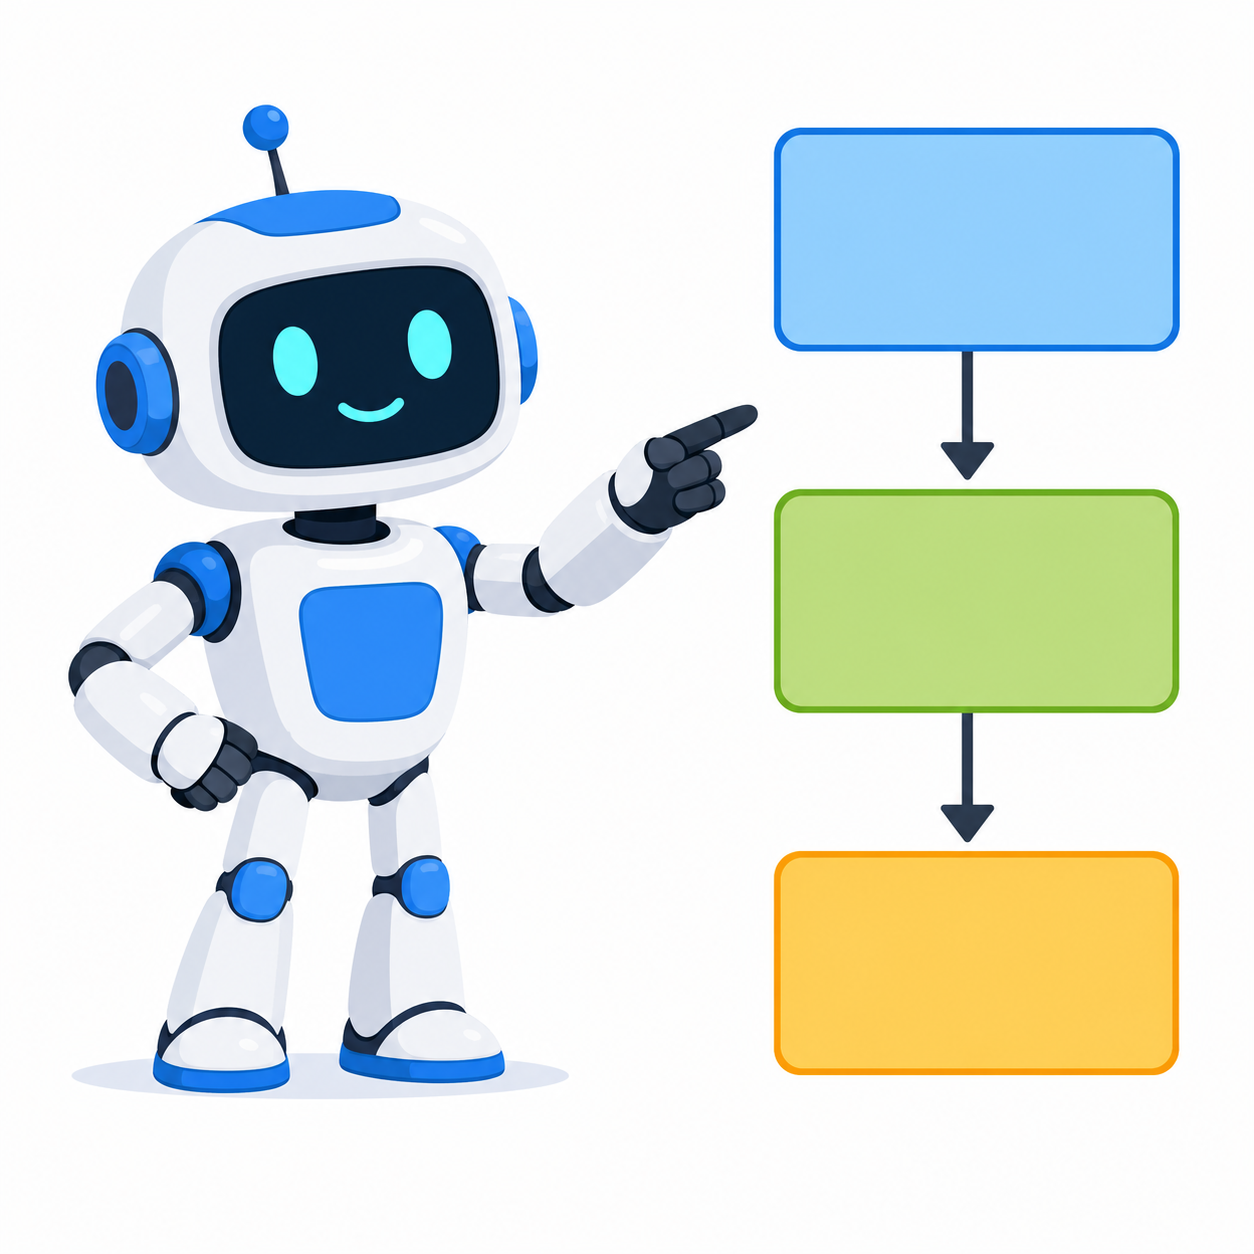
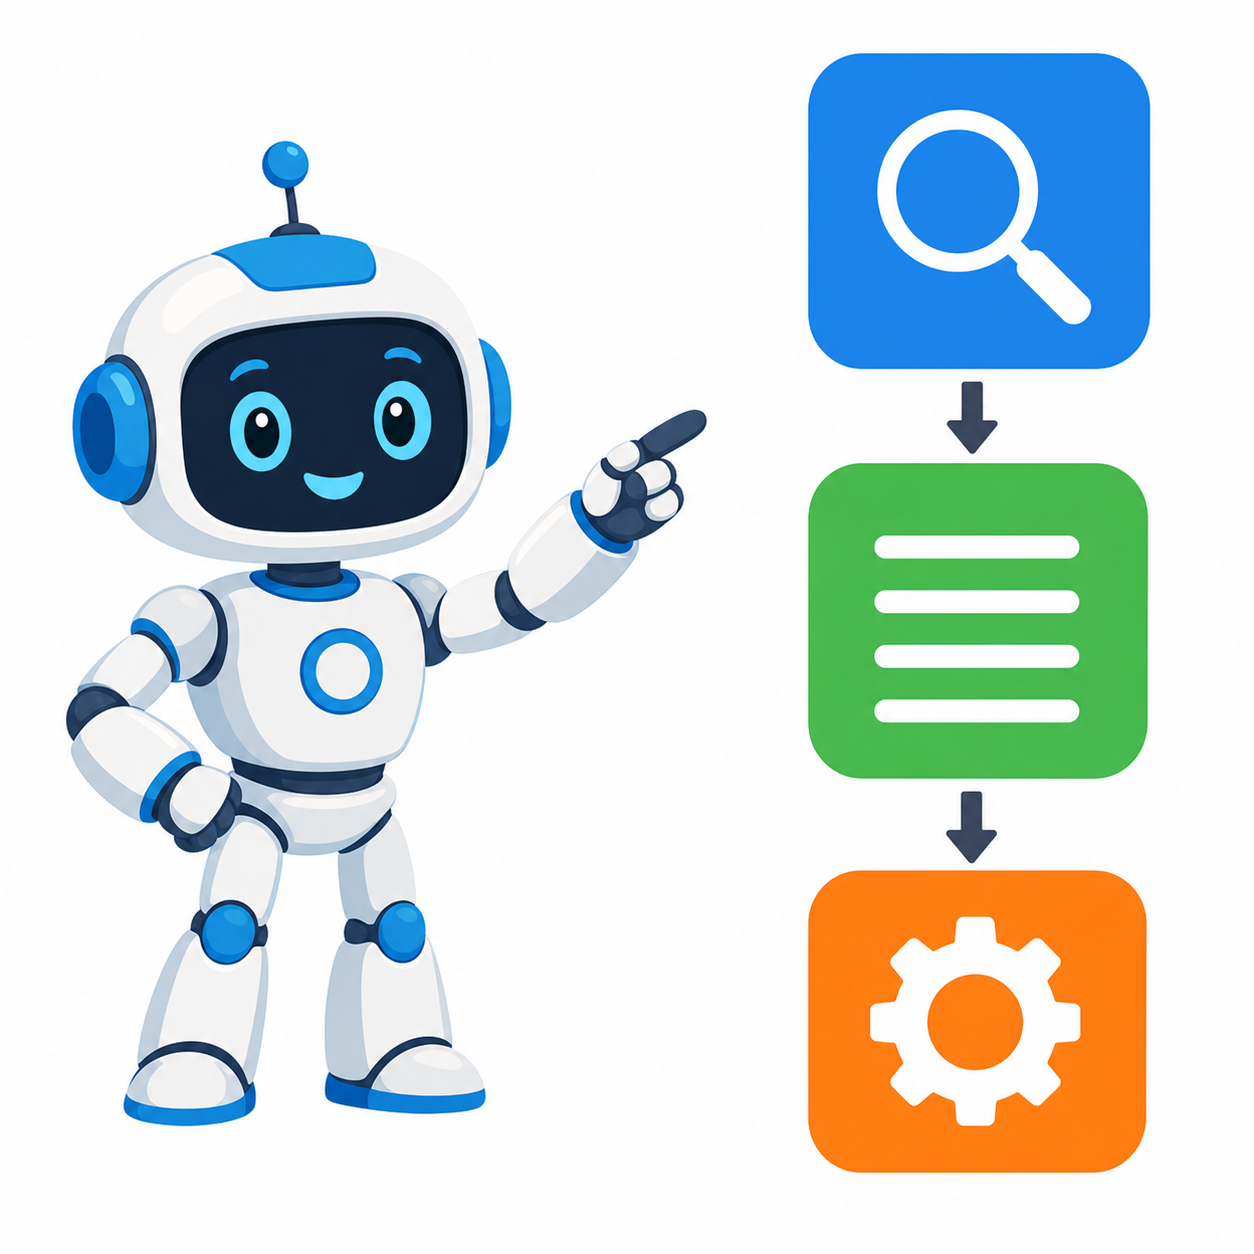
fix: 修正 image 場景版面與插圖
- 重點標語移到場景上方，避免與底部旁白字幕重疊
- 換掉空框插圖，改用框內含圖示（放大鏡/清單/齒輪）的流程圖

diff --git a/template/src/scenes/ImageScene.tsx b/template/src/scenes/ImageScene.tsx
@@ -10,49 +10,62 @@ import {
 import { FONT_FAMILY } from "../font";
 import type { SceneProps } from "../types";
 
-// 情境插圖場景：顯示 codex Image 2 生成的圖（放在 public/images/），下方帶一句說明。
+// 情境插圖場景：上方一句重點標語（heading），中間顯示 codex Image 2 生成的圖。
+// 注意：重點標語放「上方」，避免和底部的旁白字幕（Caption）重疊。
 export const ImageScene: React.FC<{ props: SceneProps }> = ({ props }) => {
   const frame = useCurrentFrame();
   const { fps } = useVideoConfig();
 
-  const enter = spring({ frame, fps, config: { damping: 18 } });
-  const scale = interpolate(enter, [0, 1], [0.86, 1]);
-  const opacity = interpolate(enter, [0, 1], [0, 1]);
+  const capEnter = spring({ frame, fps, config: { damping: 16 } });
+  const capY = interpolate(capEnter, [0, 1], [-40, 0]);
+  const capOpacity = interpolate(capEnter, [0, 1], [0, 1]);
 
-  const capOpacity = interpolate(frame, [12, 28], [0, 1], {
-    extrapolateLeft: "clamp",
-    extrapolateRight: "clamp",
-  });
+  const imgEnter = spring({ frame: frame - 8, fps, config: { damping: 18 } });
+  const scale = interpolate(imgEnter, [0, 1], [0.86, 1]);
+  const imgOpacity = interpolate(imgEnter, [0, 1], [0, 1]);
 
   return (
     <AbsoluteFill
       style={{
         fontFamily: FONT_FAMILY,
         background: "linear-gradient(135deg, #eaf3ff 0%, #f7fbff 100%)",
-        justifyContent: "center",
-        alignItems: "center",
       }}
     >
-      {props.src ? (
-        <div style={{ transform: `scale(${scale})`, opacity }}>
-          <Img
-            src={staticFile(props.src)}
-            style={{ width: 760, borderRadius: 24 }}
-          />
-        </div>
-      ) : null}
+      {/* 上方重點標語 */}
       {props.caption ? (
         <div
           style={{
-            marginTop: 36,
-            fontSize: 46,
-            fontWeight: 700,
-            color: "#1a4c8b",
+            position: "absolute",
+            top: 70,
+            width: "100%",
+            textAlign: "center",
+            transform: `translateY(${capY}px)`,
             opacity: capOpacity,
           }}
         >
-          {props.caption}
+          <span style={{ fontSize: 58, fontWeight: 900, color: "#1a4c8b" }}>
+            {props.caption}
+          </span>
         </div>
+      ) : null}
+
+      {/* 中間插圖（稍微上移，避開底部字幕） */}
+      {props.src ? (
+        <AbsoluteFill
+          style={{
+            justifyContent: "center",
+            alignItems: "center",
+            paddingTop: 60,
+            paddingBottom: 180,
+          }}
+        >
+          <div style={{ transform: `scale(${scale})`, opacity: imgOpacity }}>
+            <Img
+              src={staticFile(props.src)}
+              style={{ width: 620, borderRadius: 24 }}
+            />
+          </div>
+        </AbsoluteFill>
       ) : null}
     </AbsoluteFill>
   );